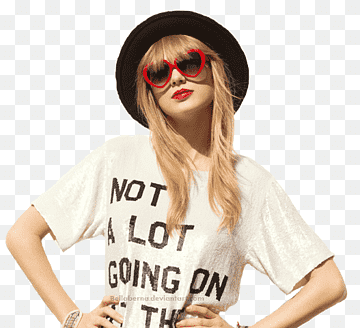
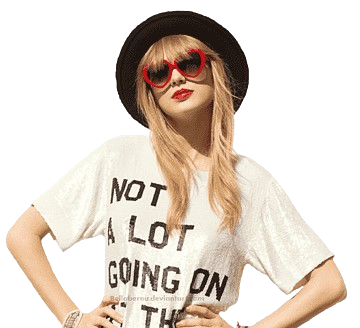
chang jpg images to png

Changed region(s): [[0.3972, 0.1524, 0.5806, 0.3049]]

diff --git a/index.html b/index.html
@@ -10,12 +10,12 @@
     <div>
         <img src="ts1.png" class="surrounding-image top-left">
         <img src="ts2.png" class="surrounding-image top-right">
-        <img src="ts3.jpg" class="surrounding-image bottom-left">
+        <img src="ts3.png" class="surrounding-image bottom-left">
         <img src="ts4.png" class="surrounding-image bottom-right">
-        <img src="sticker4.jpg" class="top-image">
-        <img src="sticker3.jpg" class="bottom-image">
-        <img src="sticker2.jpg" class="left-image">
-        <img src="sticker1.jpg" class="right-image">
+        <img src="sticker4.png" class="top-image">
+        <img src="sticker3.png" class="bottom-image">
+        <img src="sticker2.png" class="left-image">
+        <img src="sticker1.png" class="right-image">
     </div>
     <div class="letter-container">
         <div class="letter">

diff --git a/style.css b/style.css
@@ -35,7 +35,6 @@ a:hover {
 p{
     color: black;
     font-size: 20px;
-    padding: 20px;
     margin-top: 5px;
     font-family: 'CursiveFont', cursive;
     text-indent: 30px;
